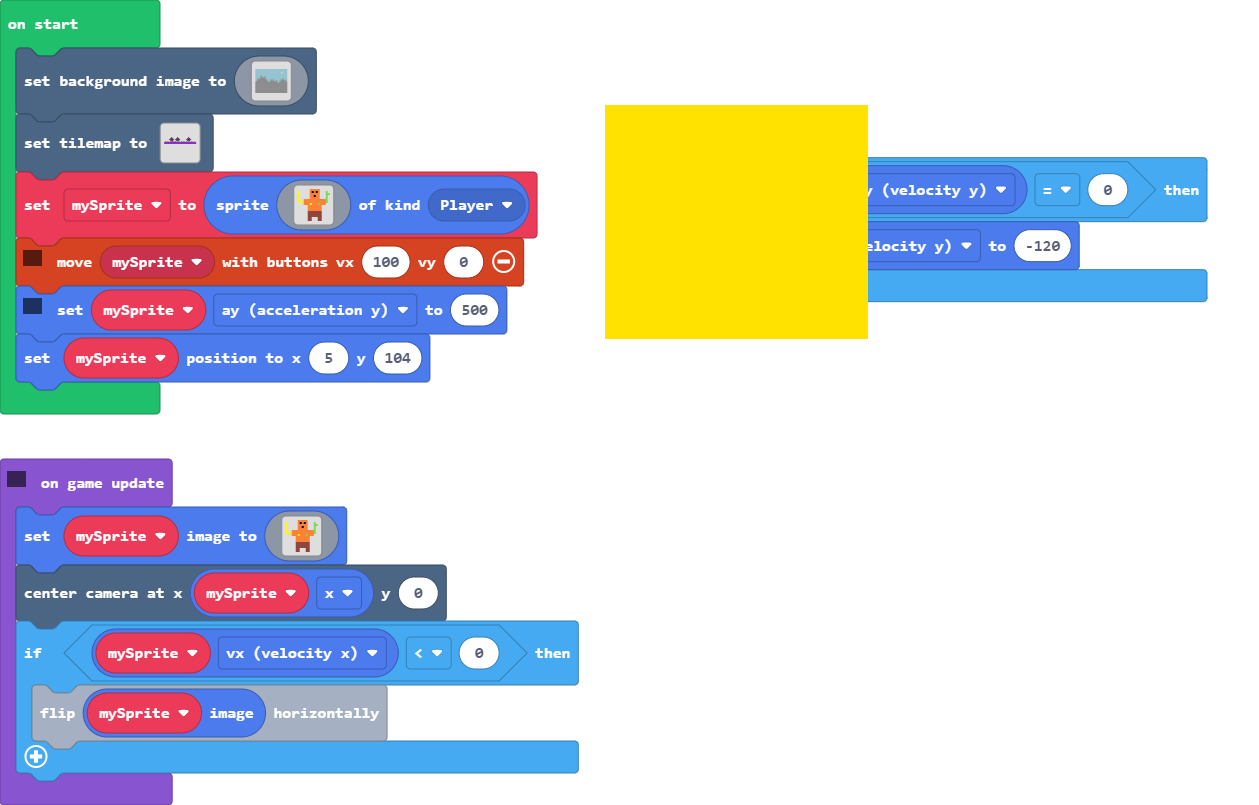
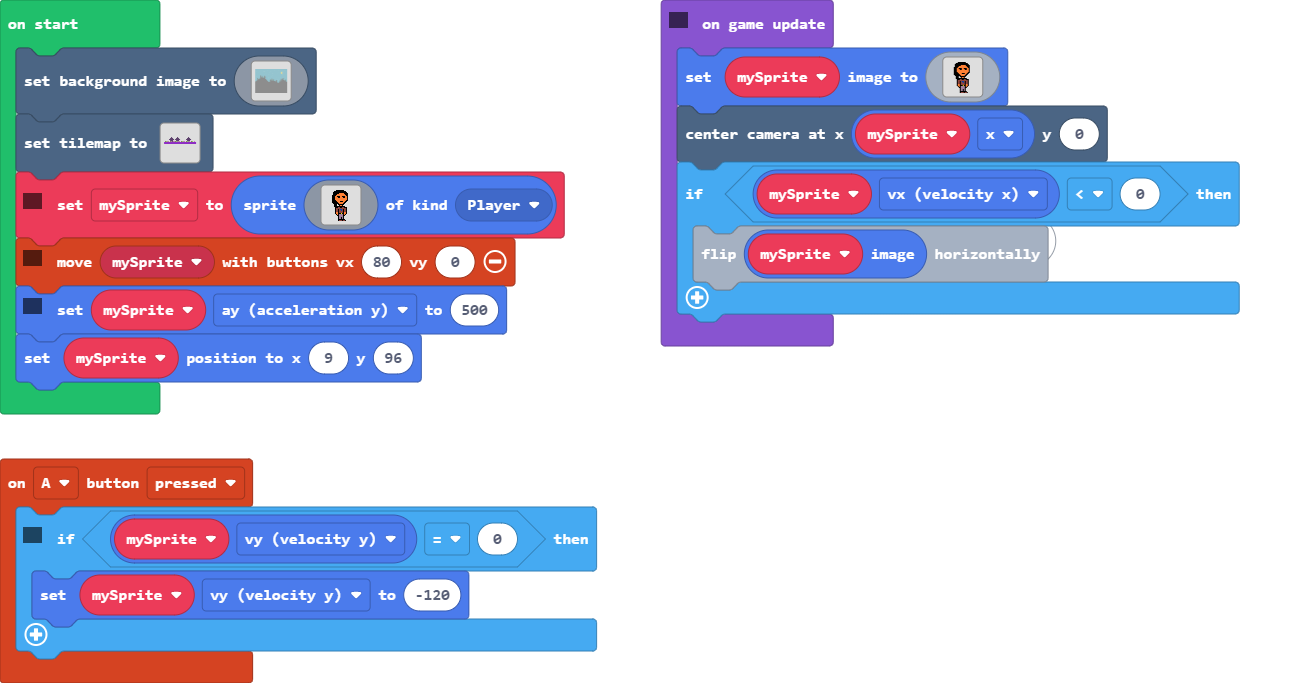
Update main.blocks, main.ts

diff --git a/main.ts b/main.ts
@@ -128,48 +128,81 @@ scene.setBackgroundImage(img`
     ffffffffffffffffffffffffffffffffffffffffffffffffffffffffffffffffffffffffffffffffffffffffffffffffffffffffffffffffffffffffffffffffffffffffffffffffffffffffffffffff
     `)
 tiles.setTilemap(tilemap`level_0`)
+// main character
 mySprite = sprites.create(img`
-    . . . . . . 4 4 4 4 4 . . . . . 
-    5 . . . . . 4 f 4 f 4 . . . 7 . 
-    5 . . . . . 4 4 4 4 4 . . . 7 7 
-    5 . . . . . 4 4 f 4 4 . . . 7 . 
-    5 . . . . . 4 4 4 4 4 . . . 7 . 
-    5 . . 4 4 4 4 4 4 4 4 4 4 4 7 . 
-    5 5 5 4 4 4 4 4 4 4 4 4 4 4 7 . 
-    . . . 4 4 4 5 4 4 4 7 4 4 4 . . 
-    . . . . . 4 4 4 4 4 4 4 . . . . 
-    . . . . . 4 4 4 4 4 4 4 . . . . 
-    . . . . . 4 4 4 4 4 4 4 . . . . 
-    . . . . . e e e e e e e . . . . 
-    . . . . . e e e e e e e . . . . 
-    . . . . . e e e e e e e . . . . 
-    . . . . . e e . . . e e . . . . 
-    . . . . . e e . . . e e . . . . 
+    ................................
+    ...........ffffffff.............
+    .........ffffffffffff...........
+    ........ffffffffffffff..........
+    ........ffffff44444ffff.........
+    ........ffff44444444fff.........
+    .......ffff4444444444ff.........
+    .......fff44fff44fff44f.........
+    .......fff444ff444ff44f.........
+    .......fff444444444444f.........
+    .......fff444444444444f.........
+    .......ffff4444444444ff.........
+    .......fffff444fff44ff..........
+    .......ffffff444444ff...........
+    ........ffffff4444ff............
+    .........fff.ffffff.............
+    .........fff..f44f..............
+    .........fffffffffff............
+    ..........fffeeffeefff..........
+    ..........feeeeeeeeeef..........
+    ..........feefe88efeef..........
+    ..........feefee8efeef..........
+    ..........feefeeeefeef..........
+    ..........f44feeeef44f..........
+    ..........f44fff5ff44f..........
+    ...........f4fbbbbf4f...........
+    ............ffbbbbff............
+    .............fbbbbf.............
+    .............fbbfbf.............
+    .............fbbfbf.............
+    .............fffffff............
+    .............feeefeef...........
     `, SpriteKind.Player)
 // controll main character
-controller.moveSprite(mySprite, 100, 0)
+controller.moveSprite(mySprite, 80, 0)
 // gravity in the game
 mySprite.ay = 500
-mySprite.setPosition(5, 104)
+mySprite.setPosition(9, 96)
 // updating game
 game.onUpdate(function () {
     mySprite.setImage(img`
-        . . . . . . 4 4 4 4 4 . . . . . 
-        5 . . . . . 4 f 4 f 4 . . . 7 . 
-        5 . . . . . 4 4 4 4 4 . . . 7 7 
-        5 . . . . . 4 4 f 4 4 . . . 7 . 
-        5 . . . . . 4 4 4 4 4 . . . 7 . 
-        5 . . 4 4 4 4 4 4 4 4 4 4 4 7 . 
-        5 5 5 4 4 4 4 4 4 4 4 4 4 4 7 . 
-        . . . 4 4 4 5 4 4 4 7 4 4 4 . . 
-        . . . . . 4 4 4 4 4 4 4 . . . . 
-        . . . . . 4 4 4 4 4 4 4 . . . . 
-        . . . . . 4 4 4 4 4 4 4 . . . . 
-        . . . . . e e e e e e e . . . . 
-        . . . . . e e e e e e e . . . . 
-        . . . . . e e e e e e e . . . . 
-        . . . . . e e . . . e e . . . . 
-        . . . . . e e . . . e e . . . . 
+        ................................
+        ...........ffffffff.............
+        .........ffffffffffff...........
+        ........ffffffffffffff..........
+        ........ffffff44444ffff.........
+        ........ffff44444444fff.........
+        .......ffff4444444444ff.........
+        .......fff44fff44fff44f.........
+        .......fff444ff444ff44f.........
+        .......fff444444444444f.........
+        .......fff444444444444f.........
+        .......ffff4444444444ff.........
+        .......fffff444fff44ff..........
+        .......ffffff444444ff...........
+        ........ffffff4444ff............
+        .........fff.ffffff.............
+        .........fff..f44f..............
+        .........fffffffffff............
+        ..........fffeeffeefff..........
+        ..........feeeeeeeeeef..........
+        ..........feefe88efeef..........
+        ..........feefee8efeef..........
+        ..........feefeeeefeef..........
+        ..........f44feeeef44f..........
+        ..........f44fff5ff44f..........
+        ...........f4fbbbbf4f...........
+        ............ffbbbbff............
+        .............fbbbbf.............
+        .............fbbfbf.............
+        .............fbbfbf.............
+        .............fffffff............
+        .............feeefeef...........
         `)
     scene.centerCameraAt(mySprite.x, 0)
     if (mySprite.vx < 0) {
